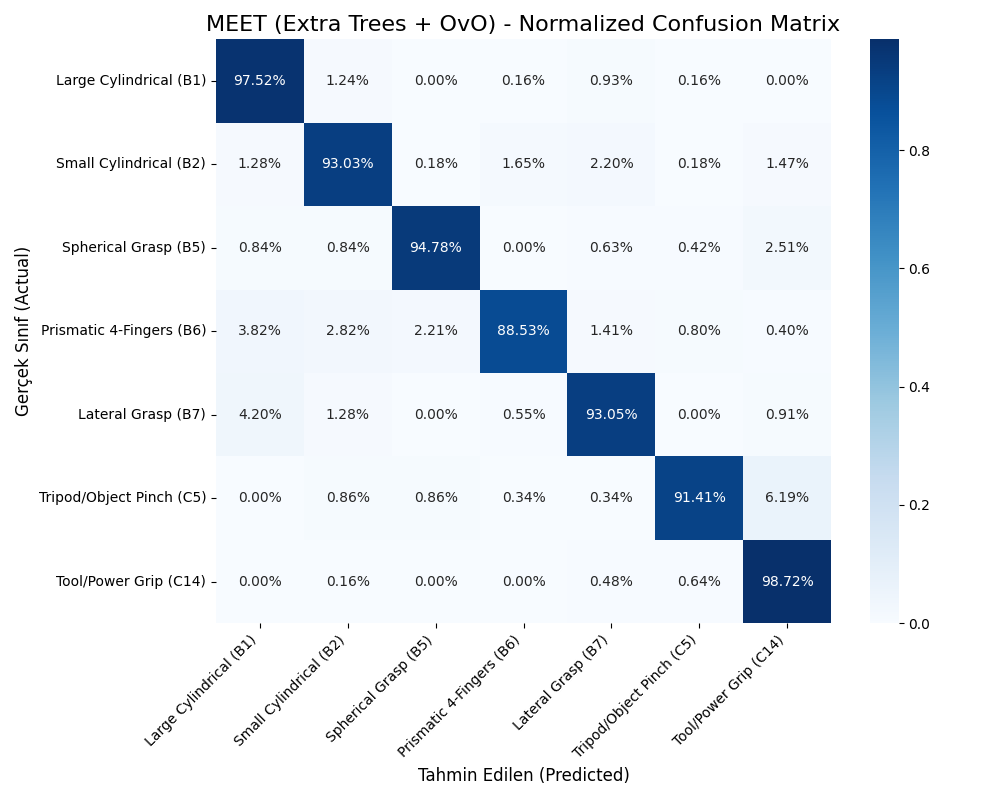
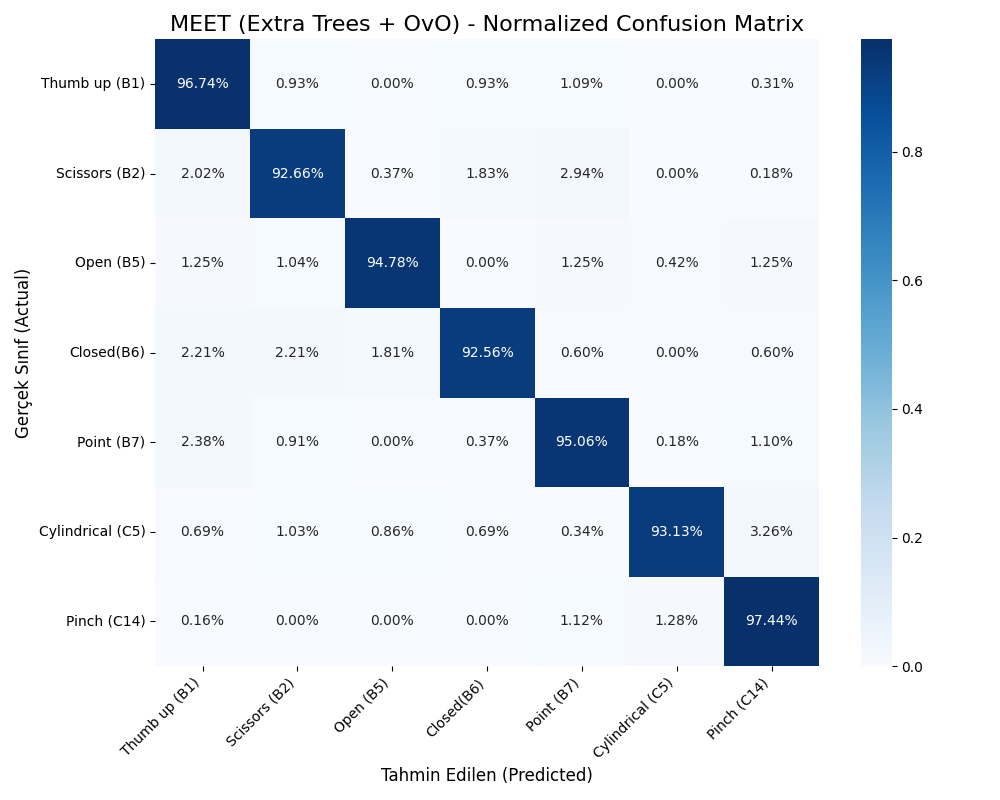
change seed number to 22 from 42

diff --git a/main.py b/main.py
@@ -26,9 +26,9 @@ def plot_normalized_confusion_matrix(y_true, y_pred, model_name, labels, target_
     plt.show()
 
 # 1. VERİYİ YÜKLEME
-file_path = 'db5_data/emg_features_7moves_8ch.csv'
-# file_path = 'db5_data/emg_features_7moves_8ch_4sbj.csv'
-
+# file_path = 'db5_data/emg_features_7moves_8ch.csv'
+file_path = 'db5_data/emg_features_7moves_8ch_4sbj.csv'
+random_seed = 22 #Edirne
 try:
     df = pd.read_csv(file_path)
     print(f"Veri seti başarıyla yüklendi. Boyut: {df.shape}")
@@ -57,7 +57,7 @@ current_target_names = [all_target_names[lbl] for lbl in existing_labels]
 print(f"\nAlgılanan Sınıflar: {current_target_names}\n")
 
 # 3. VERİYİ EĞİTİM VE TEST OLARAK BÖLME
-X_train, X_test, y_train, y_test = train_test_split(X, y, test_size=0.20, random_state=42, stratify=y)
+X_train, X_test, y_train, y_test = train_test_split(X, y, test_size=0.20, random_state=random_seed, stratify=y)
 
 # 4. ÖZELLİK ÖLÇEKLEME (FEATURE SCALING)
 scaler = StandardScaler()
@@ -72,7 +72,7 @@ print("="*50 + "\n")
 # MODEL 1: SVM
 # =========================================================
 print("--- 1. Destek Vektör Makineleri (SVM) ---")
-svm_model = SVC(kernel='rbf', C=10, gamma='scale', random_state=42)
+svm_model = SVC(kernel='rbf', C=10, gamma='scale', random_state=random_seed)
 svm_model.fit(X_train_scaled, y_train)
 
 svm_predictions = svm_model.predict(X_test_scaled)
@@ -87,7 +87,7 @@ plot_normalized_confusion_matrix(y_test, svm_predictions, "SVM", existing_labels
 # MODEL 2: RANDOM FOREST
 # =========================================================
 print("\n--- 2. Rastgele Orman (Random Forest) ---")
-rf_model = RandomForestClassifier(n_estimators=100, max_depth=None, random_state=42)
+rf_model = RandomForestClassifier(n_estimators=100, max_depth=None, random_state=random_seed)
 rf_model.fit(X_train_scaled, y_train)
 
 rf_predictions = rf_model.predict(X_test_scaled)
@@ -104,7 +104,7 @@ plot_normalized_confusion_matrix(y_test, rf_predictions, "Random Forest", existi
 print("\n--- 3. MEET (Mixture of Experts Extra Trees) ---")
 # Makaledeki gibi "ikili sınıflara (class of two) odaklanan uzmanlar" oluşturmak için OneVsOneClassifier
 # ve her bir uzman için ExtraTreesClassifier kullanıyoruz.
-meet_expert = ExtraTreesClassifier(n_estimators=100, max_depth=None, random_state=42)
+meet_expert = ExtraTreesClassifier(n_estimators=100, max_depth=None, random_state=random_seed)
 meet_model = OneVsOneClassifier(meet_expert)
 
 meet_model.fit(X_train_scaled, y_train)

diff --git a/S2_S5.py b/S2_S5.py
@@ -34,6 +34,7 @@ def plot_normalized_confusion_matrix(y_true, y_pred, model_name, labels, target_
 # 1. VERİYİ YÜKLEME
 # Dosya adının MATLAB'den çıkan son dosya olduğundan emin ol
 file_path = 'db5_data/emg_features_7moves_8ch.csv'
+random_seed = 22 #Edirne
 
 try:
     df = pd.read_csv(file_path)
@@ -66,7 +67,7 @@ current_target_names = [all_target_names[lbl] for lbl in existing_labels]
 print(f"\nAlgılanan Sınıflar: {current_target_names}\n")
 
 # 3. VERİYİ EĞİTİM VE TEST OLARAK BÖLME
-X_train, X_test, y_train, y_test = train_test_split(X, y, test_size=0.20, random_state=42, stratify=y)
+X_train, X_test, y_train, y_test = train_test_split(X, y, test_size=0.20, random_state=random_seed, stratify=y)
 
 # 4. ÖZELLİK ÖLÇEKLEME (FEATURE SCALING)
 scaler = StandardScaler()
@@ -81,7 +82,7 @@ print("="*50 + "\n")
 # MODEL 1: SVM
 # =========================================================
 print("--- 1. Destek Vektör Makineleri (SVM) ---")
-svm_model = SVC(kernel='rbf', C=10, gamma='scale', random_state=42)
+svm_model = SVC(kernel='rbf', C=10, gamma='scale', random_state=random_seed)
 svm_model.fit(X_train_scaled, y_train)
 
 svm_predictions = svm_model.predict(X_test_scaled)
@@ -98,7 +99,7 @@ plot_normalized_confusion_matrix(y_test, svm_predictions, "SVM", existing_labels
 # MODEL 2: RANDOM FOREST
 # =========================================================
 print("\n--- 2. Rastgele Orman (Random Forest) ---")
-rf_model = RandomForestClassifier(n_estimators=100, max_depth=None, random_state=42)
+rf_model = RandomForestClassifier(n_estimators=100, max_depth=None, random_state=random_seed)
 rf_model.fit(X_train_scaled, y_train)
 
 rf_predictions = rf_model.predict(X_test_scaled)

diff --git a/train_test.py b/train_test.py
@@ -40,15 +40,18 @@ y_train = train_df['Label']
 X_test = test_df.drop('Label', axis=1)
 y_test = test_df['Label']
 
+
+random_seed = 22 #Edirne
+
 # --- HAREKET İSİMLERİ ---
 all_target_names = {
-    0: 'Large Cylindrical (B1)', 
-    1: 'Small Cylindrical (B2)', 
-    2: 'Spherical Grasp (B5)', 
-    3: 'Prismatic 4-Fingers (B6)', 
-    4: 'Lateral Grasp (B7)',
-    5: 'Tripod/Object Pinch (C5)',
-    6: 'Tool/Power Grip (C14)'
+    0: 'Thumb up (B1)', 
+    1: 'Scissors (B2)', 
+    2: 'Open (B5)', 
+    3: 'Closed(B6)', 
+    4: 'Point (B7)',
+    5: 'Cylindrical (C5)',
+    6: 'Pinch (C14)'
 }
 
 # Modellerin hangi etiketlerle çalıştığını dinamik tespit etme
@@ -68,7 +71,7 @@ print("="*50 + "\n")
 # MODEL 1: SVM
 # =========================================================
 print("--- 1. Destek Vektör Makineleri (SVM) ---")
-svm_model = SVC(kernel='rbf', C=10, gamma='scale', random_state=42)
+svm_model = SVC(kernel='rbf', C=10, gamma='scale', random_state=random_seed)
 svm_model.fit(X_train_scaled, y_train)
 
 svm_predictions = svm_model.predict(X_test_scaled)
@@ -83,7 +86,7 @@ plot_normalized_confusion_matrix(y_test, svm_predictions, "SVM", existing_labels
 # MODEL 2: RANDOM FOREST
 # =========================================================
 print("\n--- 2. Rastgele Orman (Random Forest) ---")
-rf_model = RandomForestClassifier(n_estimators=100, max_depth=None, random_state=42)
+rf_model = RandomForestClassifier(n_estimators=100, max_depth=None, random_state=random_seed)
 rf_model.fit(X_train_scaled, y_train)
 
 rf_predictions = rf_model.predict(X_test_scaled)

diff --git a/README.md b/README.md
@@ -128,12 +128,12 @@ If you need to regenerate the feature data from raw NinaPro signals:
 
 1. **For within-subject features**:
 ```matlab
-ninapro_to_mydata_S2_S5
+ninapro_to_mydata
 ```
 
 2. **For cross-subject features**:
 ```matlab
-ninapro_to_mydata_S2_S5_S1_S10
+Train_S2_S5_Test_S1_S10
 ```
 
 These scripts:
@@ -169,9 +169,9 @@ Following training tests conducted with data from 4 different subjects, the over
 
 | Model Type | Accuracy Rate | Confused Classes |
 | :--- | :--- | :--- |
-| **SVM (RBF Kernel)** | 89.56% | B1, B2, C14 |
-| **Random Forest** | 93.75% | Partially B1 and C14 |
-| **MEET (Extra Trees + OvO)** | **> 94.00%** | **Most stable class separation** |
+| **SVM (RBF Kernel)** | 87.65% | B1, B2, C14 |
+| **Random Forest** | 92.88% | Partially B1 and C14 |
+| **MEET (Extra Trees + OvO)** | **> 94.74%** | **Most stable class separation** |
 
 *(Detailed Confusion Matrices and classification reports are available in the project's visual assets directory.)*
 
@@ -182,7 +182,7 @@ Following training tests conducted with data from 4 different subjects, the over
 - All text in scripts is in **Turkish** for documentation purposes
 - Features are scaled only on training data to prevent data leakage
 - Cross-subject validation tests generalization to unseen subjects
-- Random state fixed (42) for reproducibility
+- Random state fixed (22) for reproducibility
 
 ## 🔗 References
 
